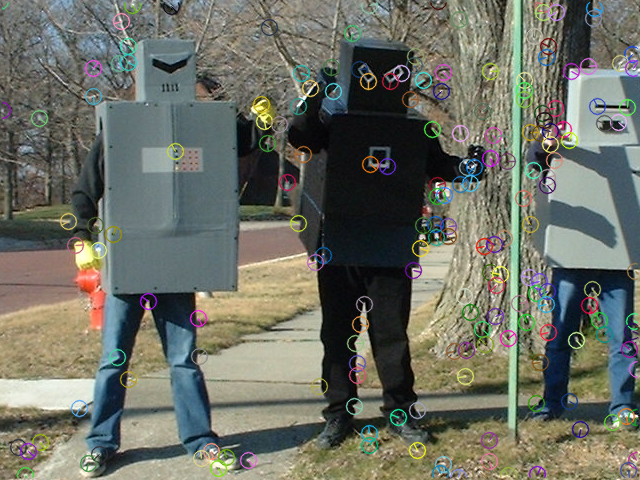
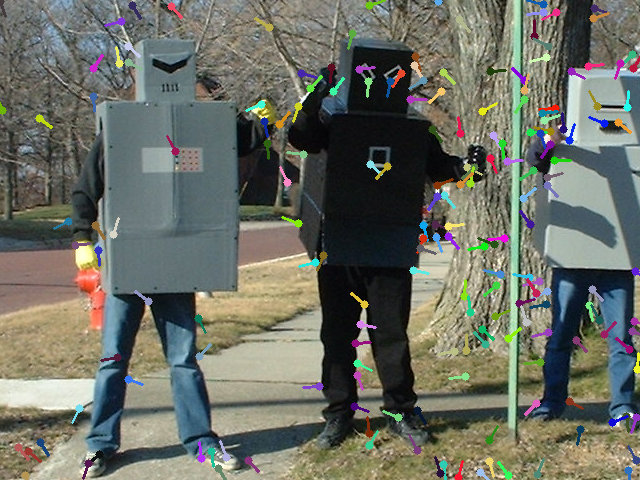
Cleaning the folders

diff --git a/Project_4/proj4-2-1/proj4-2-1.cpp b/Project_4/proj4-2-1/proj4-2-1.cpp
@@ -27,8 +27,8 @@ int main( int argc, char* argv[] )
    img1 = cv::imread( argv[1], 1 );
    img2 = cv::imread( argv[2], 1 );
 
-   m.Init_Pair1( img1, 0.05, 132, 3 );
-   m.Init_Pair2( img2, 0.05, 132, 3 );
+   m.Init_Pair1( img1, 0.05, 218, 9 );
+   m.Init_Pair2( img2, 0.05, 218, 9 );
 
 
    cv::Mat handy1 = m.DrawOrient1Handy();
